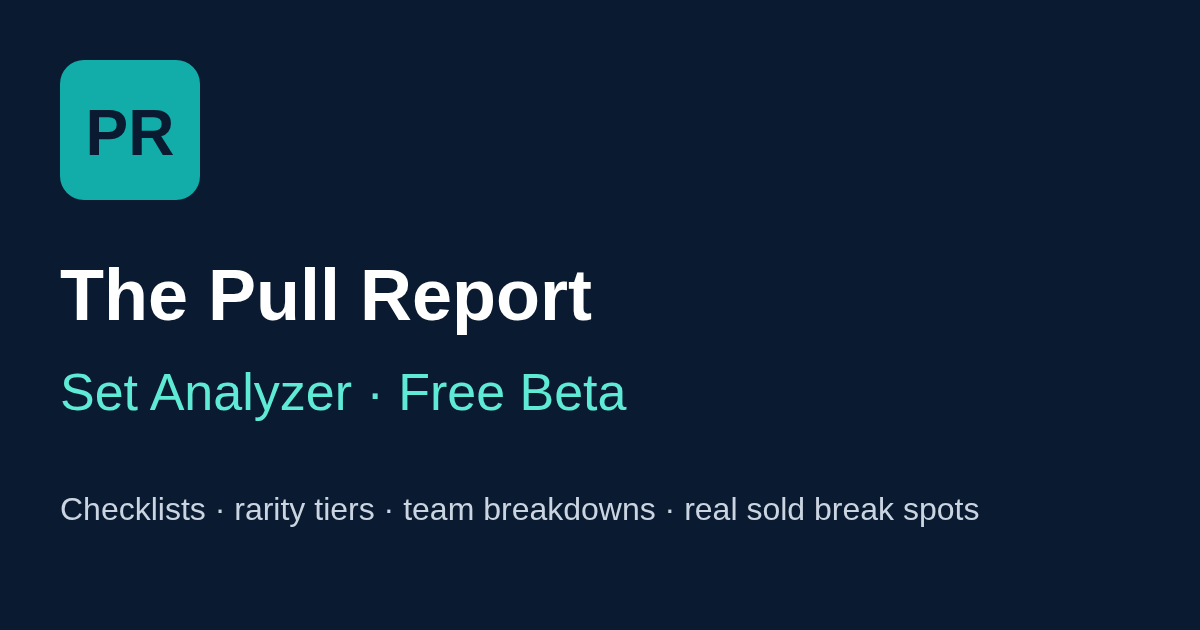
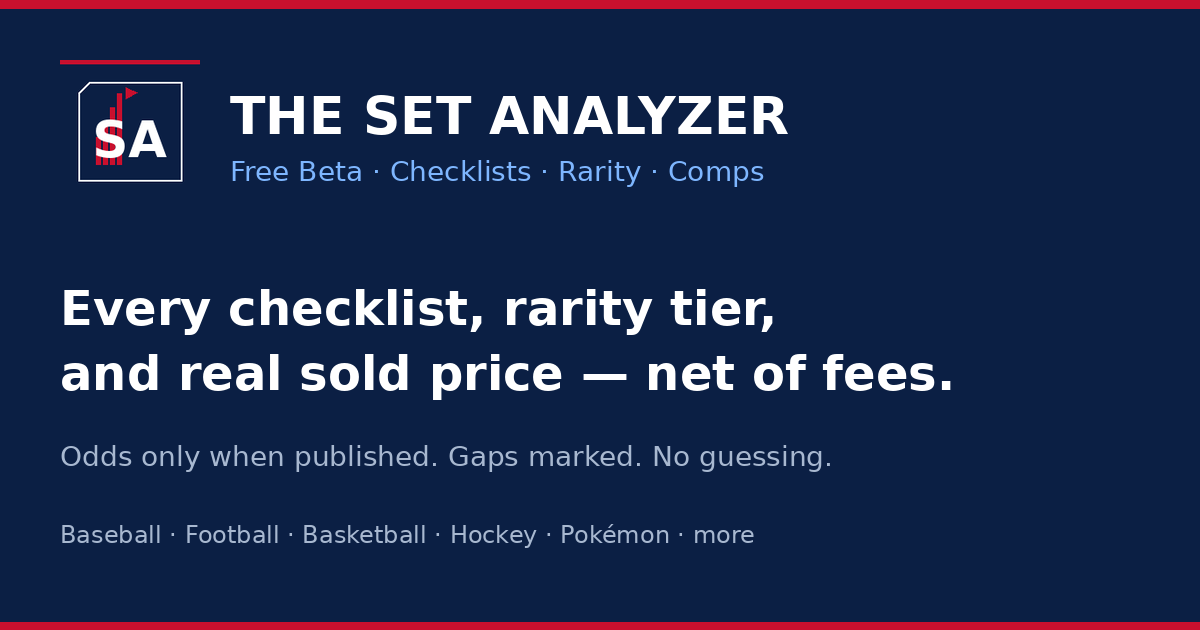
Rebrand to The Set Analyzer with American flag colors
Rename user-facing Pull Report branding to The Set Analyzer, swap navy/teal
UI to deep blue / white / Old Glory red, and refresh logo, favicon, apple-touch,
and OG assets (SA mark). Keep Substack + current X handle links until
@thesetanalyzer is claimed.

diff --git a/style.css b/style.css
@@ -1,63 +1,63 @@
-:root{--navy:#0a1a31;--navy2:#132845;--teal:#12ada9;--ink:#e6eef7;--mute:#9fb3c8;--coral:#e76964;--link:#5eead4}
+:root{--navy:#0B1F44;--navy2:#14305F;--teal:#C8102E;--ink:#F5F7FA;--mute:#A8B8D0;--coral:#E8A317;--link:#7EB6FF}
 *{box-sizing:border-box}body{margin:0;font-family:system-ui,Segoe UI,Arial,sans-serif;background:var(--navy);color:var(--ink)}
 
 header .brand{font-size:20px;font-weight:800;color:var(--teal);text-decoration:none}nav a{color:var(--ink);margin-right:16px;text-decoration:none;font-weight:600}nav a.on,nav a:hover{color:var(--teal)}
 main{padding:16px 24px}h1{font-size:22px;margin:4px 0}h2{font-size:16px;margin:18px 0 8px}.sub,.count{color:var(--mute);font-size:13px}
-.note{background:#0f2d4d;border-left:4px solid var(--teal);padding:8px 12px;font-size:13px;margin:10px 0}
+.note{background:#12305A;border-left:4px solid var(--teal);padding:8px 12px;font-size:13px;margin:10px 0}
 .grid{display:grid;grid-template-columns:repeat(auto-fit,minmax(230px,1fr));gap:12px}
-.m{background:var(--navy2);border:1px solid #23406b;border-radius:8px;padding:12px}.m h3{margin:0 0 4px;font-size:12px;text-transform:uppercase;color:var(--teal);letter-spacing:.05em}
+.m{background:var(--navy2);border:1px solid #2A4A7A;border-radius:8px;padding:12px}.m h3{margin:0 0 4px;font-size:12px;text-transform:uppercase;color:var(--teal);letter-spacing:.05em}
 .m .v{font-size:18px;font-weight:700}.m .d{font-size:13px;margin-top:4px}.m .s{font-size:11px;color:var(--mute);margin-top:6px}a.m{color:var(--ink);text-decoration:none}a.m:hover{border-color:var(--teal)}
-.gap{color:#fbbf24}input,select,button{background:var(--navy2);color:var(--ink);border:1px solid #2c4c7a;border-radius:6px;padding:7px 10px;font-size:14px}
+.gap{color:#fbbf24}input,select,button{background:var(--navy2);color:var(--ink);border:1px solid #2A4A7A;border-radius:6px;padding:7px 10px;font-size:14px}
 .ctl{display:flex;flex-wrap:wrap;gap:8px;margin:8px 0}.ctl input{flex:1;min-width:240px}
-.tabs button.on{background:var(--teal);color:var(--navy);font-weight:700}
+.tabs button.on{background:var(--teal);color:#fff;font-weight:700}
 table{width:100%;border-collapse:collapse;font-size:13px}th{background:var(--navy2);cursor:pointer;text-align:left;padding:7px;border-bottom:2px solid var(--teal)}
-td{padding:6px 7px;border-bottom:1px solid #1d3558}tr:hover td{background:#122a4a}a{color:var(--teal)}
-.tag{display:inline-block;font-size:10px;padding:1px 5px;border-radius:4px;background:var(--teal);color:var(--navy);margin-left:4px;font-weight:700;vertical-align:middle}
+td{padding:6px 7px;border-bottom:1px solid #1A3358}tr:hover td{background:#122A52}a{color:var(--teal)}
+.tag{display:inline-block;font-size:10px;padding:1px 5px;border-radius:4px;background:var(--teal);color:#fff;margin-left:4px;font-weight:700;vertical-align:middle}
 .tag.au{background:#f472b6}.tag.ch{background:#fbbf24}.tag.f{background:#38bdf8}
-details{background:var(--navy2);border:1px solid #23406b;border-radius:8px;margin:8px 0;padding:6px 12px}summary{cursor:pointer;font-weight:700;padding:4px 0}
-footer{padding:16px 24px;font-size:12px;color:var(--mute);border-top:1px solid #23406b}
+details{background:var(--navy2);border:1px solid #2A4A7A;border-radius:8px;margin:8px 0;padding:6px 12px}summary{cursor:pointer;font-weight:700;padding:4px 0}
+footer{padding:16px 24px;font-size:12px;color:var(--mute);border-top:1px solid #2A4A7A}
 .tag.u{background:#64748b;color:#fff}.tag.nch{background:transparent;border:1px solid #fbbf24;color:#fbbf24;font-weight:400}
-.tag.sp{background:#5eead4;color:#0a1a31}.tag.ssp{background:#fbbf24;color:#0a1a31}.tag.gr{background:#a78bfa;color:#0a1a31;box-shadow:0 0 0 1px #ede9fe}
+.tag.sp{background:#7EB6FF;color:#0B1F44}.tag.ssp{background:#fbbf24;color:#0B1F44}.tag.gr{background:#a78bfa;color:#0B1F44;box-shadow:0 0 0 1px #ede9fe}
 
-.beta{background:#12ada9;color:#0a1a31;font-weight:700;font-size:11px;padding:2px 7px;border-radius:9px;vertical-align:middle;letter-spacing:.5px}
-footer a{color:#5eead4}
+.beta{background:#C8102E;color:#FFFFFF;font-weight:700;font-size:11px;padding:2px 7px;border-radius:9px;vertical-align:middle;letter-spacing:.5px}
+footer a{color:#7EB6FF}
 
 
 /* --- nav redesign --- */
 html{scroll-padding-top:70px}body{line-height:1.45}
-.skip{position:absolute;left:-999px}.skip:focus{left:8px;top:8px;z-index:99;background:var(--teal);color:var(--navy);padding:10px}
-header.top{position:sticky;top:0;z-index:50;background:rgba(10,26,49,.97);backdrop-filter:blur(6px);border-bottom:3px solid var(--teal);display:flex;align-items:center;gap:16px;padding:0 20px;flex-wrap:wrap}
+.skip{position:absolute;left:-999px}.skip:focus{left:8px;top:8px;z-index:99;background:var(--teal);color:#fff;padding:10px}
+header.top{position:sticky;top:0;z-index:50;background:rgba(11,31,68,.97);backdrop-filter:blur(6px);border-bottom:3px solid var(--teal);display:flex;align-items:center;gap:16px;padding:0 20px;flex-wrap:wrap}
 header.top .bar{display:flex;align-items:center;gap:10px;min-height:56px;flex:1 1 auto}
 header.top .brand{font-size:19px;font-weight:800;color:var(--teal);text-decoration:none;padding:10px 0}
 header.top nav{display:flex;gap:2px}header.top nav a{margin:0;display:flex;align-items:center;min-height:44px;padding:0 12px;border-radius:6px;color:var(--ink);text-decoration:none;font-weight:600}
 header.top nav a.on{color:var(--teal);background:#132845}header.top nav a:hover{color:var(--teal)}
-.burger{display:none;margin-left:auto;width:44px;height:44px;padding:10px;background:transparent;border:1px solid #2c4c7a;border-radius:8px;flex-direction:column;justify-content:space-between}
+.burger{display:none;margin-left:auto;width:44px;height:44px;padding:10px;background:transparent;border:1px solid #2A4A7A;border-radius:8px;flex-direction:column;justify-content:space-between}
 .burger span{display:block;height:2px;background:var(--ink);border-radius:2px}
-a:focus-visible,button:focus-visible,input:focus-visible,select:focus-visible{outline:3px solid #5eead4;outline-offset:2px}
+a:focus-visible,button:focus-visible,input:focus-visible,select:focus-visible{outline:3px solid #7EB6FF;outline-offset:2px}
 input,select,button{min-height:44px;font-size:16px}
 .crumbs ol{list-style:none;display:flex;flex-wrap:wrap;gap:4px;padding:0;margin:4px 0 8px;font-size:14px;color:var(--mute)}
-.crumbs li+li:before{content:"›";margin-right:6px;color:var(--mute)}.crumbs a{display:inline-flex;align-items:center;min-height:44px;color:#5eead4}
+.crumbs li+li:before{content:"›";margin-right:6px;color:var(--mute)}.crumbs a{display:inline-flex;align-items:center;min-height:44px;color:#7EB6FF}
 .crumbs span{display:inline-flex;align-items:center;min-height:44px;color:var(--ink)}
 .sub,.count{color:#b6c7da}
 .hero{padding:22px 0 8px;max-width:820px}.hero h1{font-size:30px;line-height:1.2;margin:0 0 6px}.hero p{color:#c9d7e6;margin:0 0 14px;font-size:16px}
 .us{position:relative}.us input{width:100%;font-size:17px;padding:12px 14px;min-height:52px;border:2px solid var(--teal);border-radius:10px}
-.us .dd{position:absolute;left:0;right:0;top:100%;margin-top:4px;background:#0f2445;border:1px solid #2c4c7a;border-radius:10px;max-height:70vh;overflow:auto;z-index:40;box-shadow:0 10px 30px rgba(0,0,0,.5)}
+.us .dd{position:absolute;left:0;right:0;top:100%;margin-top:4px;background:#0F2448;border:1px solid #2A4A7A;border-radius:10px;max-height:70vh;overflow:auto;z-index:40;box-shadow:0 10px 30px rgba(0,0,0,.5)}
 .dd h4{margin:0;padding:8px 14px 4px;font-size:12px;letter-spacing:.06em;text-transform:uppercase;color:var(--teal)}
 .dd a{display:flex;justify-content:space-between;gap:10px;align-items:center;min-height:44px;padding:6px 14px;color:var(--ink);text-decoration:none}
-.dd a small{color:#b6c7da}.dd a.hl,.dd a:hover{background:#1b3a63}.dd .empty{padding:12px 14px;color:#b6c7da}
+.dd a small{color:#b6c7da}.dd a.hl,.dd a:hover{background:#1B3A63}.dd .empty{padding:12px 14px;color:#b6c7da}
 .tiles{display:grid;grid-template-columns:repeat(auto-fill,minmax(150px,1fr));gap:10px}
-.tile{display:flex;flex-direction:column;justify-content:center;min-height:76px;background:var(--navy2);border:1px solid #23406b;border-radius:10px;padding:10px 14px;color:var(--ink);text-decoration:none}
+.tile{display:flex;flex-direction:column;justify-content:center;min-height:76px;background:var(--navy2);border:1px solid #2A4A7A;border-radius:10px;padding:10px 14px;color:var(--ink);text-decoration:none}
 .tile b{font-size:16px}.tile small{color:#b6c7da}.tile:hover{border-color:var(--teal)}.tile .ic{font-size:20px}
 .row{display:grid;grid-auto-flow:column;grid-auto-columns:minmax(220px,1fr);gap:10px;overflow-x:auto;padding-bottom:6px;scroll-snap-type:x mandatory}.row>*{scroll-snap-align:start}
 .steps{display:grid;grid-template-columns:repeat(auto-fit,minmax(200px,1fr));gap:10px;counter-reset:st}
-.steps div{background:#0f2d4d;border-left:4px solid var(--teal);padding:10px 12px;border-radius:6px}.steps div:before{counter-increment:st;content:counter(st);display:inline-block;width:24px;height:24px;border-radius:50%;background:var(--teal);color:var(--navy);text-align:center;font-weight:800;margin-right:8px}
-.pre{background:#fbbf24;color:#0a1a31}
-.chips{display:flex;flex-wrap:wrap;gap:6px;margin:8px 0}.chips button{border-radius:22px;padding:0 14px;cursor:pointer}.chips button.on{background:var(--teal);color:var(--navy);font-weight:700;border-color:var(--teal)}
+.steps div{background:#12305A;border-left:4px solid var(--teal);padding:10px 12px;border-radius:6px}.steps div:before{counter-increment:st;content:counter(st);display:inline-block;width:24px;height:24px;border-radius:50%;background:var(--teal);color:#fff;text-align:center;font-weight:800;margin-right:8px}
+.pre{background:#fbbf24;color:#0B1F44}
+.chips{display:flex;flex-wrap:wrap;gap:6px;margin:8px 0}.chips button{border-radius:22px;padding:0 14px;cursor:pointer}.chips button.on{background:var(--teal);color:#fff;font-weight:700;border-color:var(--teal)}
 .chips button small{opacity:.8;margin-left:4px}
 .more{display:inline-flex;align-items:center;min-height:44px}
 @media(max-width:760px){.burger{display:flex}header.top{padding:0 12px}header.top nav{display:none;flex-direction:column;width:100%;padding-bottom:8px}body.navopen header.top nav{display:flex}
- header.top nav a{min-height:48px;border-top:1px solid #1d3558}.sa{display:none}main{padding:10px 14px}.hero h1{font-size:24px}table{display:block;overflow-x:auto;white-space:nowrap}.ctl input{min-width:0}}
-/* --- Pull Report branding --- */
+ header.top nav a{min-height:48px;border-top:1px solid #1A3358}.sa{display:none}main{padding:10px 14px}.hero h1{font-size:24px}table{display:block;overflow-x:auto;white-space:nowrap}.ctl input{min-width:0}}
+/* --- The Set Analyzer branding --- */
 header.top .brand{display:flex;align-items:center;gap:10px;color:#fff;letter-spacing:.02em;text-transform:uppercase}
 header.top .brand img{height:44px;width:auto;border-radius:6px}
 header.top .brand .sa{color:var(--teal);text-transform:none}

diff --git a/set.html b/set.html
@@ -1,10 +1,10 @@
-<!DOCTYPE html><html lang="en"><head><script>var PRV="4ee61437";</script><meta charset="utf-8"><meta name="viewport" content="width=device-width,initial-scale=1"><title>Set · The Pull Report</title><meta name="description" content="The Pull Report Set Analyzer (free beta): searchable checklists, odds-based rarity tiers, team breakdowns and real sold break-spot prices. Market data, not buying advice."><meta property="og:title" content="The Pull Report · Set Analyzer (Beta)"><meta property="og:description" content="Checklists, rarity tiers, team breakdowns and real sold break-spot prices. Data, not buying advice."><meta property="og:type" content="website"><meta property="og:image" content="https://matthewhoward1989.github.io/set-analyzer/og.png?v=2d84a045"><meta property="og:image:width" content="1200"><meta property="og:image:height" content="630"><meta name="twitter:image" content="https://matthewhoward1989.github.io/set-analyzer/og.png?v=2d84a045"><meta name="twitter:card" content="summary_large_image"><meta name="twitter:site" content="@ThePullReport2"><meta name="theme-color" content="#0a1a31"><link rel="apple-touch-icon" href="apple-touch-icon.png"><link rel="icon" href="favicon.png" type="image/png"><link rel="stylesheet" href="style.css?v=4ee61437"><script src="app.js?v=4ee61437"></script><script>{const I=["absolute-fb-2025", "allure-hk-2526", "bowman-bk-2526", "bowman-chrome-2026", "bowman-draft-2025", "bowman-mlb-2026", "cosmic-fb-2025", "donruss-fb-2025", "finest-fb-2025", "ice-hk-2526", "lor-09", "lor-10", "lor-11", "lor-12", "lor-13", "lor-14", "mosaic-fb-2025", "mvp-hk-2526", "nt-fb-2025", "opc-hk-2526", "opc-platinum-2526", "optic-fb-2025", "phoenix-fb-2025", "prizm-bk-2526", "prizm-fb-2025", "ptcg-30th", "ptcg-me01", "ptcg-me02", "ptcg-me025", "ptcg-me03", "ptcg-me04", "ptcg-me05", "ptcg-sv085", "ptcg-sv09", "ptcg-sv10", "ptcg-sv105b", "ptcg-sv105w", "select-fb-2025", "spa-hk-2526", "tc-disney-2025", "tc-disney-2026", "topps-ag-mlb-2026", "topps-chrome-bk-2526", "topps-chrome-bk-9697", "topps-chrome-fb-2025", "topps-chrome-mlb-2026", "topps-chrome-sw-2026", "topps-chrome-uefa-2526", "topps-chrome-update-mlb-2025", "topps-cosmic-mlb-2026", "topps-finest-mlb-2026", "topps-heritage-mlb-2026", "topps-holiday-mlb-2026", "topps-mlb-1990", "topps-neon-marvel-2026", "topps-s1-mlb-2026", "topps-s2-mlb-2026", "topps-update-mlb-2025", "ud-ext-hk-2526", "ud-s1-hk-2526", "ud-s2-hk-2526"],id=qs('id');loadSync('sets/'+(I.includes(id)?id:I[0]))}</script><script src="breaker.js?v=4ee61437"></script><script src="pokemon.js?v=4ee61437"></script></head><body><main>
+<!DOCTYPE html><html lang="en"><head><script>var PRV="19e54f09";</script><meta charset="utf-8"><meta name="viewport" content="width=device-width,initial-scale=1"><title>Set · The Set Analyzer</title><meta name="description" content="The Set Analyzer (free beta): searchable checklists, odds-based rarity tiers, team breakdowns and real sold break-spot prices. Market data, not buying advice."><meta property="og:title" content="The Set Analyzer (Beta)"><meta property="og:description" content="Checklists, rarity tiers, team breakdowns and real sold break-spot prices. Data, not buying advice."><meta property="og:type" content="website"><meta property="og:image" content="https://matthewhoward1989.github.io/set-analyzer/og.png?v=b08877a1"><meta property="og:image:width" content="1200"><meta property="og:image:height" content="630"><meta name="twitter:image" content="https://matthewhoward1989.github.io/set-analyzer/og.png?v=b08877a1"><meta name="twitter:card" content="summary_large_image"><meta name="twitter:site" content="@ThePullReport2"><meta name="theme-color" content="#0B1F44"><link rel="apple-touch-icon" href="apple-touch-icon.png"><link rel="icon" href="favicon.png" type="image/png"><link rel="stylesheet" href="style.css?v=19e54f09"><script src="app.js?v=19e54f09"></script><script>{const I=["absolute-fb-2025", "allure-hk-2526", "bowman-bk-2526", "bowman-chrome-2026", "bowman-draft-2025", "bowman-mlb-2026", "cosmic-fb-2025", "donruss-fb-2025", "finest-fb-2025", "ice-hk-2526", "lor-09", "lor-10", "lor-11", "lor-12", "lor-13", "lor-14", "mosaic-fb-2025", "mvp-hk-2526", "nt-fb-2025", "opc-hk-2526", "opc-platinum-2526", "optic-fb-2025", "phoenix-fb-2025", "prizm-bk-2526", "prizm-fb-2025", "ptcg-30th", "ptcg-me01", "ptcg-me02", "ptcg-me025", "ptcg-me03", "ptcg-me04", "ptcg-me05", "ptcg-sv085", "ptcg-sv09", "ptcg-sv10", "ptcg-sv105b", "ptcg-sv105w", "select-fb-2025", "spa-hk-2526", "tc-disney-2025", "tc-disney-2026", "topps-ag-mlb-2026", "topps-chrome-bk-2526", "topps-chrome-bk-9697", "topps-chrome-fb-2025", "topps-chrome-mlb-2026", "topps-chrome-sw-2026", "topps-chrome-uefa-2526", "topps-chrome-update-mlb-2025", "topps-cosmic-mlb-2026", "topps-finest-mlb-2026", "topps-heritage-mlb-2026", "topps-holiday-mlb-2026", "topps-mlb-1990", "topps-neon-marvel-2026", "topps-s1-mlb-2026", "topps-s2-mlb-2026", "topps-update-mlb-2025", "ud-ext-hk-2526", "ud-s1-hk-2526", "ud-s2-hk-2526"],id=qs('id');loadSync('sets/'+(I.includes(id)?id:I[0]))}</script><script src="breaker.js?v=19e54f09"></script><script src="pokemon.js?v=19e54f09"></script></head><body><main>
 <h1 id="t"></h1><div class="sub" id="st"></div><div class="note">This is market data, not a recommendation to buy, sell, or break.</div>
 <h2>Top 5 metrics</h2><div id="top"></div>
 <div class="ctl tabs" id="tabs"></div>
 <div class="ctl" id="ctl"><input id="q" placeholder="Search player, team or card #"><select id="ft"><option value="">All teams</option></select><select id="fy"><option value="">All types</option><option value="rc">RC</option><option value="auto">Autos</option><option value="sp">Short Print</option><option value="ssp">SSP</option><option value="grail">Grail</option><option value="anytier">Any tier</option><option value="unk">Odds unknown</option><option value="nch">Named case hit</option><option value="1st">1st Bowman</option></select><select id="fs"><option value="">All subsets</option></select></div>
 <div class="count" id="count"></div><div id="v"></div><h2>Sources</h2><ul id="src"></ul><h2 class="gap">Gaps</h2><ul id="gaps"></ul></main>
-<script>header('sets');const S=SETS.find(s=>s.id==qs('id'))||SETS[0];document.title=S.name+' · The Pull Report';{const k=CATOF[S.sport],c=CATS.find(x=>x[0]==k);crumbs([['Home','index.html'],['Sets','sets.html'],...(c?[[c[1],'sets.html?cat='+k]]:[]),[S.name]])}
+<script>header('sets');const S=SETS.find(s=>s.id==qs('id'))||SETS[0];document.title=S.name+' · The Set Analyzer';{const k=CATOF[S.sport],c=CATS.find(x=>x[0]==k);crumbs([['Home','index.html'],['Sets','sets.html'],...(c?[[c[1],'sets.html?cat='+k]]:[]),[S.name]])}
 $('#t').textContent=S.name;$('#st').textContent=`${S.sport} · ${S.league} · released ${S.release||'n/a'} · ${S.cards.length} cards`;const TCG=S.kind=='tcg',NS=S.kind=='nonsport';$('#top').innerHTML=TCG?tcgIntro(S)+tcgTop5(S):top5(S);if(NS){$('#q').placeholder='Search character, artist, subset or card #';$('#ft').style.display='none';[...$('#fy').options].forEach(o=>{if(['rc','1st'].includes(o.value))o.remove()})}
 if(TCG){$('#q').placeholder='Search Pokémon, type or card #';$('#ft').options[0].text='All types';$('#fs').options[0].text='All rarities';[...$('#fy').options].forEach(o=>{if(['rc','auto','nch','1st'].includes(o.value))o.remove()});$('#fy').options[0].text='All tiers'}
 [...new Set(S.cards.map(c=>c.team))].sort().forEach(t=>$('#ft').add(new Option(t,t)));[...new Set(S.cards.map(c=>c.set))].forEach(t=>$('#fs').add(new Option(t,t)));

diff --git a/teams.html b/teams.html
@@ -1,4 +1,4 @@
-<!DOCTYPE html><html lang="en"><head><script>var PRV="4ee61437";</script><meta charset="utf-8"><meta name="viewport" content="width=device-width,initial-scale=1"><title>Teams · The Pull Report</title><meta name="description" content="The Pull Report Set Analyzer (free beta): searchable checklists, odds-based rarity tiers, team breakdowns and real sold break-spot prices. Market data, not buying advice."><meta property="og:title" content="The Pull Report · Set Analyzer (Beta)"><meta property="og:description" content="Checklists, rarity tiers, team breakdowns and real sold break-spot prices. Data, not buying advice."><meta property="og:type" content="website"><meta property="og:image" content="https://matthewhoward1989.github.io/set-analyzer/og.png?v=2d84a045"><meta property="og:image:width" content="1200"><meta property="og:image:height" content="630"><meta name="twitter:image" content="https://matthewhoward1989.github.io/set-analyzer/og.png?v=2d84a045"><meta name="twitter:card" content="summary_large_image"><meta name="twitter:site" content="@ThePullReport2"><meta name="theme-color" content="#0a1a31"><link rel="apple-touch-icon" href="apple-touch-icon.png"><link rel="icon" href="favicon.png" type="image/png"><link rel="stylesheet" href="style.css?v=4ee61437"><script src="app.js?v=4ee61437"></script><script>loadSync('meta');loadSync('teams/index')</script><script>if(PR_TI[qs('t')])loadSync('teams/'+PR_TI[qs('t')])</script></head><body><main>
+<!DOCTYPE html><html lang="en"><head><script>var PRV="19e54f09";</script><meta charset="utf-8"><meta name="viewport" content="width=device-width,initial-scale=1"><title>Teams · The Set Analyzer</title><meta name="description" content="The Set Analyzer (free beta): searchable checklists, odds-based rarity tiers, team breakdowns and real sold break-spot prices. Market data, not buying advice."><meta property="og:title" content="The Set Analyzer (Beta)"><meta property="og:description" content="Checklists, rarity tiers, team breakdowns and real sold break-spot prices. Data, not buying advice."><meta property="og:type" content="website"><meta property="og:image" content="https://matthewhoward1989.github.io/set-analyzer/og.png?v=b08877a1"><meta property="og:image:width" content="1200"><meta property="og:image:height" content="630"><meta name="twitter:image" content="https://matthewhoward1989.github.io/set-analyzer/og.png?v=b08877a1"><meta name="twitter:card" content="summary_large_image"><meta name="twitter:site" content="@ThePullReport2"><meta name="theme-color" content="#0B1F44"><link rel="apple-touch-icon" href="apple-touch-icon.png"><link rel="icon" href="favicon.png" type="image/png"><link rel="stylesheet" href="style.css?v=19e54f09"><script src="app.js?v=19e54f09"></script><script>loadSync('meta');loadSync('teams/index')</script><script>if(PR_TI[qs('t')])loadSync('teams/'+PR_TI[qs('t')])</script></head><body><main>
 <h1>Team analysis</h1><div class="sub">Every card from one team across all tracked sets. Relocated or renamed clubs are grouped under the current franchise (e.g. Oakland Raiders → Las Vegas Raiders), and the printed name is kept on each card.</div><div class="note" id="relo"><b>Relocated &amp; retired teams.</b> Cards are grouped under the current franchise, and each card keeps its printed team name. MLB: Brooklyn Dodgers → LA Dodgers; New York Giants → SF Giants; Milwaukee Braves → Atlanta Braves; St. Louis Browns → Baltimore Orioles; Montreal Expos → Washington Nationals; Florida Marlins → Miami Marlins; Tampa Bay Devil Rays → Rays; Cleveland Indians → Guardians; California / Anaheim Angels → LA Angels; Oakland Athletics → Athletics. NFL: Houston Oilers → Tennessee Titans; Oakland / LA Raiders → Las Vegas Raiders; San Diego Chargers → LA Chargers; St. Louis Rams → LA Rams; Chicago / St. Louis / Phoenix Cardinals → Arizona Cardinals; Washington Redskins / Football Team → Commanders; Boston Patriots → New England Patriots; Baltimore Colts → Indianapolis Colts. NBA: New Jersey Nets → Brooklyn Nets; Seattle SuperSonics → OKC Thunder. NHL: Utah Hockey Club → Utah Mammoth. <b>Washington Senators:</b> the 1901–60 club became the Twins and the 1961–71 club became the Rangers. Cards don't show a year, so we only map a player whose Senators era is clear (Walter Johnson, 1907–27 → Twins); any other Senators card is listed as its own team, “Washington Senators (historic)”.</div>
 <div class="ctl"><select id="tp"></select></div><div id="sum"></div><div id="out"></div></main>
 <script>header('teams');crumbs([['Home','index.html'],['Teams',qs('t')?'teams.html':''],...(qs('t')?[[qs('t').split('|')[1]||qs('t')]]:[])]);let ALL=SETS.flatMap(s=>s.cards.map(c=>({...c,S:s})));const T=Object.keys(PR_TI).sort((a,b)=>a.split('|')[1].localeCompare(b.split('|')[1]));

diff --git a/app.js b/app.js
@@ -1,12 +1,11 @@
 const tcgNet=p=>Math.round((p-Math.min(p*0.1075,75)-(p*0.025+0.30))*100)/100;
-// Shared helpers for The Pull Report Set Analyzer (vanilla JS, offline; data from data/all.js)
+// Shared helpers for The Set Analyzer (vanilla JS, offline; data from data/all.js)
 let D=window.PR_DATA||window.PR_HOME||{sets:[]},SETS=window.PR_DATA?D.sets:[];
 // Compact data loader: files call PRL({...}); cards are {k:[key lists],r:[[keyIdx,...values]]}
 function decCards(e){if(Array.isArray(e))return e;return e.r.map(r=>{const k=e.k[r[0]],o={};for(let i=0;i<k.length;i++)o[k[i]]=r[i+1];return o})}
 function PRL(o){o.sets.forEach(s=>s.cards=decCards(s.cards));window.PR_DATA=o;D=o;SETS=o.sets}
 const dataUrl=p=>'data/'+p+'.js?v='+(window.PRV||'');
 function loadSync(p){document.write('<script src="'+dataUrl(p)+'"><\/script>')}
-function loadScript(src){return new Promise((ok,no)=>{const s=document.createElement('script');s.src=src+(src.includes('?')?'':'?v='+(window.PRV||''));s.onload=ok;s.onerror=no;document.head.appendChild(s)})}
 function loadAsync(p){return new Promise((ok,no)=>{const s=document.createElement('script');s.src=dataUrl(p);s.onload=()=>ok(window.PR_DATA);s.onerror=no;document.head.appendChild(s)})}
 const $=s=>document.querySelector(s),esc=s=>String(s??'').replace(/[&<>"]/g,c=>({'&':'&amp;','<':'&lt;','>':'&gt;','"':'&quot;'}[c]));
 const money=n=>n===''||n==null?'—':'$'+Number(n).toFixed(2);
@@ -22,7 +21,7 @@ const LEGEND=`<div class="m"><div class="d"><b>Rarity tiers</b> (hobby rate, X =
 const tierCounts=a=>['SP','SSP','Grail'].map(t=>`${TIERS[t][1]} ${a.filter(c=>c.tier==t).length}`).join(' · ');
 function badges(c){return (c.rc?'<span class="tag">RC</span>':'')+(c.first_bowman?'<span class="tag f">1st</span>':'')+(c.auto?'<span class="tag au">AUTO</span>':'')+tierTag(c)+(c.odds=='unknown'?'<span class="tag u" title="No published odds found">odds ?</span>':'')+(c.named_case_hit?'<span class="tag nch" title="Named case hit as published by the source">named CH</span>':'')}
 function header(active){const L=[['index','Home'],['sets','Sets'],['players','Players'],['teams','Teams'],['breakers','Breakers'],['about','About']];
- document.body.insertAdjacentHTML('afterbegin',`<a class="skip" href="#main">Skip to content</a><header class="top"><div class="bar"><a class="brand" href="index.html"><img src="logo.png" alt="" width="40" height="44">The Pull Report <span class="sa">· Set Analyzer</span></a> <span class="beta">BETA</span><button class="burger" id="burger" aria-label="Menu" aria-expanded="false" aria-controls="mainnav"><span></span><span></span><span></span></button></div><nav id="mainnav" aria-label="Main">${L.map(([h,l])=>`<a href="${h}.html" class="${h==active?'on':''}"${h==active?' aria-current="page"':''}>${l}</a>`).join('')}</nav></header>`);
+ document.body.insertAdjacentHTML('afterbegin',`<a class="skip" href="#main">Skip to content</a><header class="top"><div class="bar"><a class="brand" href="index.html"><img src="logo.png" alt="" width="40" height="44">The Set Analyzer</a> <span class="beta">BETA</span><button class="burger" id="burger" aria-label="Menu" aria-expanded="false" aria-controls="mainnav"><span></span><span></span><span></span></button></div><nav id="mainnav" aria-label="Main">${L.map(([h,l])=>`<a href="${h}.html" class="${h==active?'on':''}"${h==active?' aria-current="page"':''}>${l}</a>`).join('')}</nav></header>`);
  const b=document.getElementById('burger');b.onclick=()=>{const o=document.body.classList.toggle('navopen');b.setAttribute('aria-expanded',o)};
  const m=document.querySelector('main');if(m&&!m.id)m.id='main';
  document.body.insertAdjacentHTML('beforeend',`<footer>Market data only, not a recommendation to buy, sell, or break. Net figures: <b>sports cards</b> (eBay) = sale − 13.25% − $0.40 − supplies (~$1 raw / ~$3 graded, estimate); <b>Pokémon / TCG</b> (standard TCG marketplace seller fee formula) = market − 10.75% commission (capped at $75 per product) − 2.5% transaction fee − $0.30, before shipping and tax. Data built ${D.built}. Sources and gaps are listed on each set page. <a href="about.html">About &amp; methodology</a> · <a href="https://matthowardcards.substack.com">Substack: The Pull Report</a> · <a href="https://x.com/ThePullReport2">X @ThePullReport2</a></footer>`)}

diff --git a/breakers.html b/breakers.html
@@ -1,4 +1,4 @@
-<!DOCTYPE html><html lang="en"><head><script>var PRV="4ee61437";</script><meta charset="utf-8"><meta name="viewport" content="width=device-width,initial-scale=1"><title>Breakers · The Pull Report</title><meta name="description" content="The Pull Report Set Analyzer (free beta): searchable checklists, odds-based rarity tiers, team breakdowns and real sold break-spot prices. Market data, not buying advice."><meta property="og:title" content="The Pull Report · Set Analyzer (Beta)"><meta property="og:description" content="Checklists, rarity tiers, team breakdowns and real sold break-spot prices. Data, not buying advice."><meta property="og:type" content="website"><meta property="og:image" content="https://matthewhoward1989.github.io/set-analyzer/og.png?v=2d84a045"><meta property="og:image:width" content="1200"><meta property="og:image:height" content="630"><meta name="twitter:image" content="https://matthewhoward1989.github.io/set-analyzer/og.png?v=2d84a045"><meta name="twitter:card" content="summary_large_image"><meta name="twitter:site" content="@ThePullReport2"><meta name="theme-color" content="#0a1a31"><link rel="apple-touch-icon" href="apple-touch-icon.png"><link rel="icon" href="favicon.png" type="image/png"><link rel="stylesheet" href="style.css?v=4ee61437"><script src="app.js?v=4ee61437"></script><script>loadSync('breakers')</script><script src="breaker.js?v=4ee61437"></script></head><body><main>
+<!DOCTYPE html><html lang="en"><head><script>var PRV="19e54f09";</script><meta charset="utf-8"><meta name="viewport" content="width=device-width,initial-scale=1"><title>Breakers · The Set Analyzer</title><meta name="description" content="The Set Analyzer (free beta): searchable checklists, odds-based rarity tiers, team breakdowns and real sold break-spot prices. Market data, not buying advice."><meta property="og:title" content="The Set Analyzer (Beta)"><meta property="og:description" content="Checklists, rarity tiers, team breakdowns and real sold break-spot prices. Data, not buying advice."><meta property="og:type" content="website"><meta property="og:image" content="https://matthewhoward1989.github.io/set-analyzer/og.png?v=b08877a1"><meta property="og:image:width" content="1200"><meta property="og:image:height" content="630"><meta name="twitter:image" content="https://matthewhoward1989.github.io/set-analyzer/og.png?v=b08877a1"><meta name="twitter:card" content="summary_large_image"><meta name="twitter:site" content="@ThePullReport2"><meta name="theme-color" content="#0B1F44"><link rel="apple-touch-icon" href="apple-touch-icon.png"><link rel="icon" href="favicon.png" type="image/png"><link rel="stylesheet" href="style.css?v=19e54f09"><script src="app.js?v=19e54f09"></script><script>loadSync('breakers')</script><script src="breaker.js?v=19e54f09"></script></head><body><main>
 <h1>Breakers desk <span class="count">sports sets only</span></h1><div class="sub">Box quick keys, case-hit lists, real sold team-spot prices where we have them, and a clearly labeled model check, all per set.</div>
 <div class="note">This is market data, not buying advice. Spot prices are medians of real eBay sold spots, each sale linked, with sample sizes. Model figures are estimates, not prices. Gaps are marked in <span class="gap">amber</span>.</div>
 <div class="note">Sports-only section: team-based break pricing and the team-weight model do not apply to Pokémon TCG or non-sport (Marvel, Star Wars) sets, so those are excluded here. Their box/ETB configs, MSRP and sealed prices are on each set page.</div><h2>Overview</h2><div id="ov"></div><div class="ctl"><select id="sp"></select></div><div id="panel"></div>

diff --git a/players.html b/players.html
@@ -1,4 +1,4 @@
-<!DOCTYPE html><html lang="en"><head><script>var PRV="4ee61437";</script><meta charset="utf-8"><meta name="viewport" content="width=device-width,initial-scale=1"><title>Players · The Pull Report</title><meta name="description" content="The Pull Report Set Analyzer (free beta): searchable checklists, odds-based rarity tiers, team breakdowns and real sold break-spot prices. Market data, not buying advice."><meta property="og:title" content="The Pull Report · Set Analyzer (Beta)"><meta property="og:description" content="Checklists, rarity tiers, team breakdowns and real sold break-spot prices. Data, not buying advice."><meta property="og:type" content="website"><meta property="og:image" content="https://matthewhoward1989.github.io/set-analyzer/og.png?v=2d84a045"><meta property="og:image:width" content="1200"><meta property="og:image:height" content="630"><meta name="twitter:image" content="https://matthewhoward1989.github.io/set-analyzer/og.png?v=2d84a045"><meta name="twitter:card" content="summary_large_image"><meta name="twitter:site" content="@ThePullReport2"><meta name="theme-color" content="#0a1a31"><link rel="apple-touch-icon" href="apple-touch-icon.png"><link rel="icon" href="favicon.png" type="image/png"><link rel="stylesheet" href="style.css?v=4ee61437"><script src="app.js?v=4ee61437"></script><script>loadSync('meta');loadSync('players/index')</script></head><body><main>
+<!DOCTYPE html><html lang="en"><head><script>var PRV="19e54f09";</script><meta charset="utf-8"><meta name="viewport" content="width=device-width,initial-scale=1"><title>Players · The Set Analyzer</title><meta name="description" content="The Set Analyzer (free beta): searchable checklists, odds-based rarity tiers, team breakdowns and real sold break-spot prices. Market data, not buying advice."><meta property="og:title" content="The Set Analyzer (Beta)"><meta property="og:description" content="Checklists, rarity tiers, team breakdowns and real sold break-spot prices. Data, not buying advice."><meta property="og:type" content="website"><meta property="og:image" content="https://matthewhoward1989.github.io/set-analyzer/og.png?v=b08877a1"><meta property="og:image:width" content="1200"><meta property="og:image:height" content="630"><meta name="twitter:image" content="https://matthewhoward1989.github.io/set-analyzer/og.png?v=b08877a1"><meta name="twitter:card" content="summary_large_image"><meta name="twitter:site" content="@ThePullReport2"><meta name="theme-color" content="#0B1F44"><link rel="apple-touch-icon" href="apple-touch-icon.png"><link rel="icon" href="favicon.png" type="image/png"><link rel="stylesheet" href="style.css?v=19e54f09"><script src="app.js?v=19e54f09"></script><script>loadSync('meta');loadSync('players/index')</script></head><body><main>
 <h1>Player &amp; character analysis</h1><div class="sub" id="leg">Search any player, Pokémon or character across every tracked set. The legend below matches the category of the result.</div>
 <div class="ctl"><input id="q" list="pl" placeholder="Search a player, Pokémon or Disney character (e.g. Matvei Michkov, Charizard, Stitch, Gengar)"><datalist id="pl"></datalist></div><div id="m" class="count"></div><div id="out"></div></main>
 <script>header('players');crumbs([['Home','index.html'],['Players',qs('p')?'players.html':''],...(qs('p')?[[qs('p')]]:[])]);let ALL=[],LS=-1;const PS={};PR_PI.forEach((a,i)=>a.forEach(p=>PS[p]=i));const P=PR_PI.flat().sort();$('#pl').innerHTML=P.map(p=>`<option value="${esc(p)}">`).join('');

diff --git a/about.html b/about.html
@@ -1,4 +1,4 @@
-<!DOCTYPE html><html lang="en"><head><script>var PRV="4ee61437";</script><meta charset="utf-8"><meta name="viewport" content="width=device-width,initial-scale=1"><title>About &amp; Methodology · The Pull Report Set Analyzer</title><meta name="description" content="The Pull Report Set Analyzer (free beta): searchable checklists, odds-based rarity tiers, team breakdowns and real sold break-spot prices. Market data, not buying advice."><meta property="og:title" content="The Pull Report · Set Analyzer (Beta)"><meta property="og:description" content="Checklists, rarity tiers, team breakdowns and real sold break-spot prices. Data, not buying advice."><meta property="og:type" content="website"><meta property="og:image" content="https://matthewhoward1989.github.io/set-analyzer/og.png?v=2d84a045"><meta property="og:image:width" content="1200"><meta property="og:image:height" content="630"><meta name="twitter:image" content="https://matthewhoward1989.github.io/set-analyzer/og.png?v=2d84a045"><meta name="twitter:card" content="summary_large_image"><meta name="twitter:site" content="@ThePullReport2"><meta name="theme-color" content="#0a1a31"><link rel="apple-touch-icon" href="apple-touch-icon.png"><link rel="icon" href="favicon.png" type="image/png"><link rel="stylesheet" href="style.css?v=4ee61437"><script src="app.js?v=4ee61437"></script><script>loadSync('meta')</script></head><body><main>
+<!DOCTYPE html><html lang="en"><head><script>var PRV="19e54f09";</script><meta charset="utf-8"><meta name="viewport" content="width=device-width,initial-scale=1"><title>About &amp; Methodology · The Set Analyzer</title><meta name="description" content="The Set Analyzer (free beta): searchable checklists, odds-based rarity tiers, team breakdowns and real sold break-spot prices. Market data, not buying advice."><meta property="og:title" content="The Set Analyzer (Beta)"><meta property="og:description" content="Checklists, rarity tiers, team breakdowns and real sold break-spot prices. Data, not buying advice."><meta property="og:type" content="website"><meta property="og:image" content="https://matthewhoward1989.github.io/set-analyzer/og.png?v=b08877a1"><meta property="og:image:width" content="1200"><meta property="og:image:height" content="630"><meta name="twitter:image" content="https://matthewhoward1989.github.io/set-analyzer/og.png?v=b08877a1"><meta name="twitter:card" content="summary_large_image"><meta name="twitter:site" content="@ThePullReport2"><meta name="theme-color" content="#0B1F44"><link rel="apple-touch-icon" href="apple-touch-icon.png"><link rel="icon" href="favicon.png" type="image/png"><link rel="stylesheet" href="style.css?v=19e54f09"><script src="app.js?v=19e54f09"></script><script>loadSync('meta')</script></head><body><main>
 <h1>About &amp; methodology</h1><div class="sub">Free beta · last updated <b id="upd"></b></div>
 <div class="note"><b>Not buying advice.</b> This site shows market data and published odds. It is not a recommendation to buy, sell, open, or join a break. Prices change fast. Check live listings before spending money.</div>
 <h2>What's here</h2><p>Searchable checklists with parallels, rarity tiers from published hobby odds, team breakdowns, and, where we have them, real sold break-spot prices and net-of-fees card comps.</p>

diff --git a/sets.html b/sets.html
@@ -1,4 +1,4 @@
-<!DOCTYPE html><html lang="en"><head><script>var PRV="4ee61437";</script><meta charset="utf-8"><meta name="viewport" content="width=device-width,initial-scale=1"><title>Sets · The Pull Report</title><meta name="description" content="The Pull Report Set Analyzer (free beta): searchable checklists, odds-based rarity tiers, team breakdowns and real sold break-spot prices. Market data, not buying advice."><meta property="og:title" content="The Pull Report · Set Analyzer (Beta)"><meta property="og:description" content="Checklists, rarity tiers, team breakdowns and real sold break-spot prices. Data, not buying advice."><meta property="og:type" content="website"><meta property="og:image" content="https://matthewhoward1989.github.io/set-analyzer/og.png?v=2d84a045"><meta property="og:image:width" content="1200"><meta property="og:image:height" content="630"><meta name="twitter:image" content="https://matthewhoward1989.github.io/set-analyzer/og.png?v=2d84a045"><meta name="twitter:card" content="summary_large_image"><meta name="twitter:site" content="@ThePullReport2"><meta name="theme-color" content="#0a1a31"><link rel="apple-touch-icon" href="apple-touch-icon.png"><link rel="icon" href="favicon.png" type="image/png"><link rel="stylesheet" href="style.css?v=4ee61437"><script src="data/home.js?v=4ee61437"></script><script src="app.js?v=4ee61437"></script></head><body><main>
+<!DOCTYPE html><html lang="en"><head><script>var PRV="19e54f09";</script><meta charset="utf-8"><meta name="viewport" content="width=device-width,initial-scale=1"><title>Sets · The Set Analyzer</title><meta name="description" content="The Set Analyzer (free beta): searchable checklists, odds-based rarity tiers, team breakdowns and real sold break-spot prices. Market data, not buying advice."><meta property="og:title" content="The Set Analyzer (Beta)"><meta property="og:description" content="Checklists, rarity tiers, team breakdowns and real sold break-spot prices. Data, not buying advice."><meta property="og:type" content="website"><meta property="og:image" content="https://matthewhoward1989.github.io/set-analyzer/og.png?v=b08877a1"><meta property="og:image:width" content="1200"><meta property="og:image:height" content="630"><meta name="twitter:image" content="https://matthewhoward1989.github.io/set-analyzer/og.png?v=b08877a1"><meta name="twitter:card" content="summary_large_image"><meta name="twitter:site" content="@ThePullReport2"><meta name="theme-color" content="#0B1F44"><link rel="apple-touch-icon" href="apple-touch-icon.png"><link rel="icon" href="favicon.png" type="image/png"><link rel="stylesheet" href="style.css?v=19e54f09"><script src="data/home.js?v=19e54f09"></script><script src="app.js?v=19e54f09"></script></head><body><main>
 <h1>Sets</h1><div class="sub">Pick a category, sort, or search. Each release has its own analyzer page with a Top 5.</div>
 <div class="chips" id="chips" role="group" aria-label="Category"></div>
 <div class="ctl"><input id="q" type="search" placeholder="Search sets (e.g. Bowman, Chrome, Lorcana)" aria-label="Search sets"><select id="so" aria-label="Sort"><option value="new">Newest first</option><option value="old">Oldest first</option><option value="name">Name A–Z</option></select></div>

diff --git a/index.html b/index.html
@@ -1,4 +1,4 @@
-<!DOCTYPE html><html lang="en"><head><script>var PRV="4ee61437";</script><meta charset="utf-8"><meta name="viewport" content="width=device-width,initial-scale=1"><title>The Pull Report · Set Analyzer</title><meta name="description" content="The Pull Report Set Analyzer (free beta): searchable checklists, odds-based rarity tiers, team breakdowns and real sold break-spot prices. Market data, not buying advice."><meta property="og:title" content="The Pull Report · Set Analyzer (Beta)"><meta property="og:description" content="Checklists, rarity tiers, team breakdowns and real sold break-spot prices. Data, not buying advice."><meta property="og:type" content="website"><meta property="og:image" content="https://matthewhoward1989.github.io/set-analyzer/og.png?v=2d84a045"><meta property="og:image:width" content="1200"><meta property="og:image:height" content="630"><meta name="twitter:image" content="https://matthewhoward1989.github.io/set-analyzer/og.png?v=2d84a045"><meta name="twitter:card" content="summary_large_image"><meta name="twitter:site" content="@ThePullReport2"><meta name="theme-color" content="#0a1a31"><link rel="apple-touch-icon" href="apple-touch-icon.png"><link rel="icon" href="favicon.png" type="image/png"><link rel="stylesheet" href="style.css?v=4ee61437"><script src="data/home.js?v=4ee61437"></script><script src="app.js?v=4ee61437"></script></head><body><main>
+<!DOCTYPE html><html lang="en"><head><script>var PRV="19e54f09";</script><meta charset="utf-8"><meta name="viewport" content="width=device-width,initial-scale=1"><title>The Set Analyzer</title><meta name="description" content="The Set Analyzer (free beta): searchable checklists, odds-based rarity tiers, team breakdowns and real sold break-spot prices. Market data, not buying advice."><meta property="og:title" content="The Set Analyzer (Beta)"><meta property="og:description" content="Checklists, rarity tiers, team breakdowns and real sold break-spot prices. Data, not buying advice."><meta property="og:type" content="website"><meta property="og:image" content="https://matthewhoward1989.github.io/set-analyzer/og.png?v=b08877a1"><meta property="og:image:width" content="1200"><meta property="og:image:height" content="630"><meta name="twitter:image" content="https://matthewhoward1989.github.io/set-analyzer/og.png?v=b08877a1"><meta name="twitter:card" content="summary_large_image"><meta name="twitter:site" content="@ThePullReport2"><meta name="theme-color" content="#0B1F44"><link rel="apple-touch-icon" href="apple-touch-icon.png"><link rel="icon" href="favicon.png" type="image/png"><link rel="stylesheet" href="style.css?v=19e54f09"><script src="data/home.js?v=19e54f09"></script><script src="app.js?v=19e54f09"></script></head><body><main>
 <section class="hero"><h1>Every checklist, rarity tier and real sold price for this year's sets, net of fees.</h1>
 <p id="stats">Free beta · baseball, football, basketball, hockey, Pokémon, Disney and more.</p>
 <div class="us" role="combobox" aria-haspopup="listbox" aria-owns="dd" aria-expanded="false" id="usw"><label for="us" class="skip">Search sets, players, characters and teams</label>
